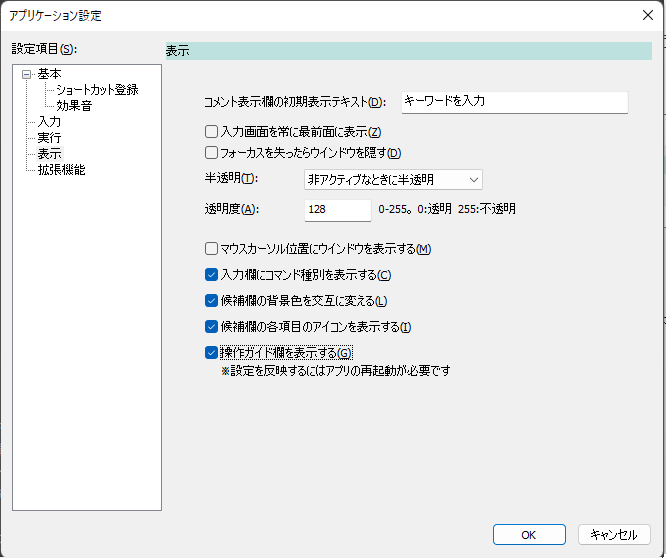
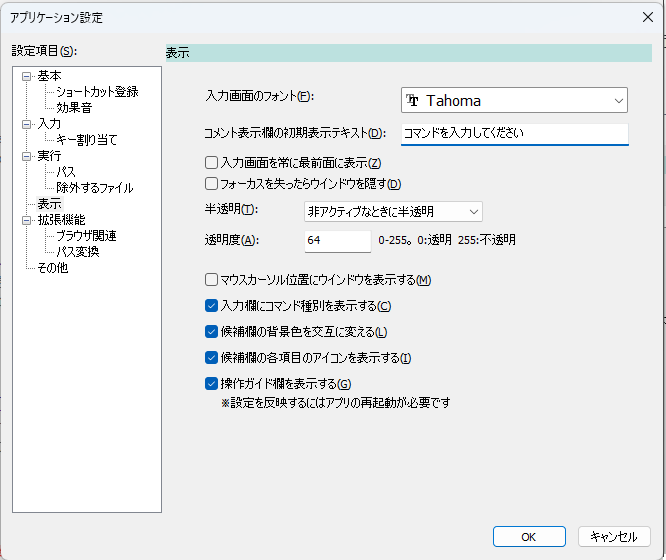
入力画面のフォント名を指定できるようにした

diff --git a/soyokaze/mainwindow/LauncherMainWindow.cpp b/soyokaze/mainwindow/LauncherMainWindow.cpp
@@ -89,6 +89,7 @@ struct LauncherMainWindow::PImpl
 	//
 	bool mIsPrevTransparentState = false;
 
+	CFont mFontDlg;
 
 	// ドロップターゲット
 	LauncherDropTarget mDropTargetDialog;
@@ -162,6 +163,7 @@ LauncherMainWindow::LauncherMainWindow(CWnd* pParent /*=nullptr*/)
 	in->mWindowTransparencyPtr = std::make_unique<WindowTransparency>();
 
 	in->mCandidateListBox.SetCandidateList(&in->mCandidates);
+	AppPreference::Get()->RegisterListener(this);
 }
 
 LauncherMainWindow::~LauncherMainWindow()
@@ -646,6 +648,37 @@ LRESULT LauncherMainWindow::OnTaskTrayContextMenu(CWnd* wnd, CPoint point)
 	return 0;
 }
 
+void LauncherMainWindow::OnAppFirstBoot()
+{
+}
+
+void LauncherMainWindow::OnAppPreferenceUpdated()
+{
+	auto pref = AppPreference::Get();
+
+	CString fontName;
+	if (pref->GetMainWindowFontName(fontName) == false) {
+		return;
+	}
+
+	LOGFONT lf;
+	GetFont()->GetLogFont(&lf);
+
+	if (in->mFontDlg.m_hObject) {
+		in->mFontDlg.DeleteObject();
+	}
+	_tcsncpy_s(lf.lfFaceName, LF_FACESIZE, fontName, _TRUNCATE);
+	in->mFontDlg.CreateFontIndirectW(&lf);
+	SetFont(&in->mFontDlg);
+
+	SendMessageToDescendants(WM_SETFONT, (WPARAM)in->mFontDlg.m_hObject, MAKELONG(FALSE, 0), FALSE);
+}
+
+void LauncherMainWindow::OnAppExit()
+{
+	AppPreference::Get()->UnregisterListener(this);
+}
+
 // LauncherMainWindow メッセージ ハンドラー
 
 BOOL LauncherMainWindow::OnInitDialog()
@@ -653,6 +686,20 @@ BOOL LauncherMainWindow::OnInitDialog()
 	SPDLOG_DEBUG(_T("start"));
 
 	CDialogEx::OnInitDialog();
+
+	auto pref = AppPreference::Get();
+
+	CString fontName;
+	if (pref->GetMainWindowFontName(fontName)) {
+		LOGFONT lf;
+		GetFont()->GetLogFont(&lf);
+
+		_tcsncpy_s(lf.lfFaceName, LF_FACESIZE, fontName, _TRUNCATE);
+		in->mFontDlg.CreateFontIndirectW(&lf);
+		SetFont(&in->mFontDlg);
+
+		SendMessageToDescendants(WM_SETFONT, (WPARAM)in->mFontDlg.m_hObject, MAKELONG(FALSE, 0), FALSE);
+	}
 
 	WTSRegisterSessionNotification(GetSafeHwnd(), NOTIFY_FOR_ALL_SESSIONS);
 	SetTimer(TIMERID_OPERATION, 1000, nullptr);
@@ -698,7 +745,6 @@ BOOL LauncherMainWindow::OnInitDialog()
 
 	in->mSharedHwnd = std::make_unique<SharedHwnd>(GetSafeHwnd());
 
-	auto pref = AppPreference::Get();
 	in->mDescriptionStr = pref->GetDefaultComment();
 	in->mGuideStr.Empty();
 

diff --git a/soyokaze/settingwindow/ViewSettingDialog.cpp b/soyokaze/settingwindow/ViewSettingDialog.cpp
@@ -96,6 +96,13 @@ void ViewSettingDialog::OnOK()
 	settingsPtr->Set(_T("Soyokaze:IsAlternateColor"), (bool)in->mIsAlternateColor);
 	settingsPtr->Set(_T("Soyokaze:IsDrawIconOnCandidate"), (bool)in->mIsDrawIconOnCandidate);
 
+	CMFCFontComboBox* fontCombo = (CMFCFontComboBox*)GetDlgItem(IDC_MFCFONTCOMBO_MAIN);
+	ASSERT(fontCombo);
+	auto fontInfo = fontCombo->GetSelFont();
+
+	settingsPtr->Set(_T("MainWindow:FontName"), fontInfo->m_strName);
+
+
 	__super::OnOK();
 }
 
@@ -172,4 +179,9 @@ void ViewSettingDialog::OnEnterSettings()
 	in->mIsShowGuide = settingsPtr->Get(_T("Soyokaze:IsShowGuide"), true);
 	in->mIsAlternateColor = settingsPtr->Get(_T("Soyokaze:IsAlternateColor"), false);
 	in->mIsDrawIconOnCandidate = settingsPtr->Get(_T("Soyokaze:IsDrawIconOnCandidate"), false);
+
+	CString fontName = settingsPtr->Get(_T("MainWindow:FontName"), _T("Tahoma"));
+	CMFCFontComboBox* fontCombo = (CMFCFontComboBox*)GetDlgItem(IDC_MFCFONTCOMBO_MAIN);
+	ASSERT(fontCombo);
+	fontCombo->SelectFont(fontName);
 }

diff --git a/soyokaze/mainwindow/LauncherMainWindow.h b/soyokaze/mainwindow/LauncherMainWindow.h
@@ -7,6 +7,7 @@
 #include <vector>
 #include <memory>
 #include "tasktray/TaskTrayEventListenerIF.h"
+#include "setting/AppPreferenceListenerIF.h"
 #include "gui/KeywordEdit.h"
 #include "mainwindow/CmdReceiveEdit.h"
 #include "icon/CaptureIconLabel.h"
@@ -27,7 +28,7 @@ class WindowPosition;
 class WindowTransparency;
 
 // LauncherMainWindow ダイアログ
-class LauncherMainWindow : public CDialogEx, public TaskTrayEventListenerIF
+class LauncherMainWindow : public CDialogEx, public TaskTrayEventListenerIF, public AppPreferenceListenerIF
 {
 	using CommandRepository = launcherapp::core::CommandRepository;
 	using AppHotKey = launcherapp::core::AppHotKey;
@@ -62,6 +63,10 @@ protected:
 
 	LRESULT OnTaskTrayLButtonDblclk() override;
 	LRESULT OnTaskTrayContextMenu(CWnd* wnd, CPoint point) override;
+
+	void OnAppFirstBoot() override;
+	void OnAppPreferenceUpdated() override;
+	void OnAppExit() override;
 
 	// 生成された、メッセージ割り当て関数
 	BOOL OnInitDialog() override;

diff --git a/soyokaze/resource.h b/soyokaze/resource.h
@@ -336,14 +336,15 @@
 #define IDC_CHECK_NOTIFYUPDATE          1149
 #define IDC_EDIT_FILTER                 1150
 #define IDC_COMBO_LEVEL                 1151
+#define IDC_MFCFONTCOMBO_MAIN           1153
 
 // Next default values for new objects
 // 
 #ifdef APSTUDIO_INVOKED
 #ifndef APSTUDIO_READONLY_SYMBOLS
-#define _APS_NEXT_RESOURCE_VALUE        166
+#define _APS_NEXT_RESOURCE_VALUE        167
 #define _APS_NEXT_COMMAND_VALUE         32775
-#define _APS_NEXT_CONTROL_VALUE         1152
+#define _APS_NEXT_CONTROL_VALUE         1154
 #define _APS_NEXT_SYMED_VALUE           101
 #endif
 #endif

diff --git a/soyokaze/setting/AppPreference.cpp b/soyokaze/setting/AppPreference.cpp
@@ -761,6 +761,17 @@ int AppPreference::GetTimeToWarnLongOperation()
 	return in->mSettings.Get(_T("Health:TimeToWarn"), 90);
 }
 
+// メイン画面のフォント名
+bool AppPreference::GetMainWindowFontName(CString& fontName)
+{
+	auto name = in->mSettings.Get(_T("MainWindow:FontName"), _T(""));
+	if (name.IsEmpty()) {
+		return false;
+	}
+	fontName = name;
+	return true;
+}
+
 // ログレベル
 int AppPreference::GetLogLevel()
 {

diff --git a/soyokaze/setting/AppPreference.h b/soyokaze/setting/AppPreference.h
@@ -133,6 +133,9 @@ public:
 	// 長時間連続稼働警告までの時間を取得する(分単位)
 	int GetTimeToWarnLongOperation();
 
+	// メイン画面のフォント名
+	bool GetMainWindowFontName(CString& fontName);
+
 	// ログレベル
 	int GetLogLevel();
 

diff --git a/doc/help.md b/doc/help.md
@@ -567,6 +567,10 @@ mp3ファイルのみ指定可能(他の音声ファイルには非対応)
 
 ![](../image/setting5.png)
 
+- `入力画面のフォント`
+  - 入力画面のフォントを指定する
+  - 初期値は`Tahoma`フォント
+
 - `コメント表示欄の初期表示テキスト`
   - 入力画面を表示した直後のコメント欄のテキストを設定する  
 ![](../image/defaultcomment.png)

diff --git a/CHANGELOG.md b/CHANGELOG.md
@@ -5,6 +5,7 @@
 ## Added
 
 - [簡易辞書コマンド] ファイル更新時に通知を行う機能を追加
+- メインウインドウのフォント名を指定できるようにした
 
 ## [0.19.0] - 2024-04-21
 
